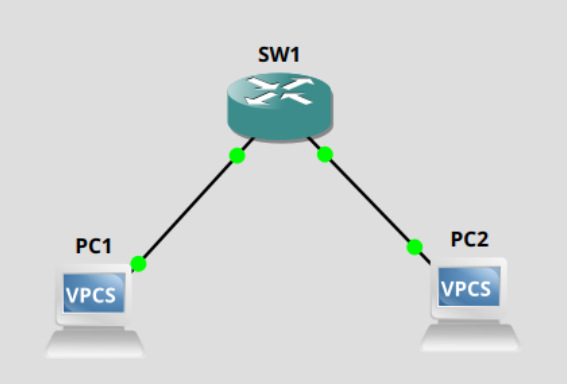
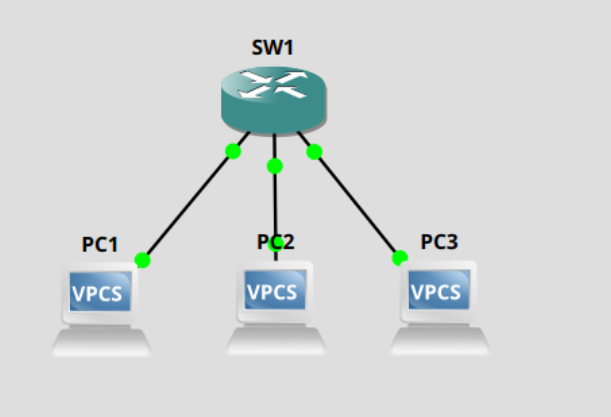
nice

Changed region(s): [[0.2998, 0.0938, 0.9295, 0.875], [0.0899, 0.5625, 0.2998, 0.9062], [0.2698, 0.5, 0.3598, 0.5938]]

diff --git a/README.md b/README.md
@@ -48,45 +48,31 @@ user add name <name> password <password> group=full
 user remove admin
 ```
 
-Set up interfaces as bridge ports. 
+What I would like to do is set up a fairly basic enterprise switch with a few vlans. First, we'll initialize the mikrotik device as a switch and then we'll initialize the vlans and ports with appropriate access vlans assigned. Last we enable vlan filtering.  
 
 ```
-int bridge add name=bridge1
+interface bridge add name=SW1
 
-int bridge port add bridge=bridge1 interface=ether1
-int bridge port add bridge=bridge1 interface=ether2
-int bridge port add bridge=bridge1 interface=ether3
-int bridge port add bridge=bridge1 interface=ether4
-int bridge port add bridge=bridge1 interface=ether5
-int bridge port add bridge=bridge1 interface=ether6
-int bridge port add bridge=bridge1 interface=ether7
-int bridge port add bridge=bridge1 interface=ether8
+interface vlan add interface=SW1 name=PCI vlan-id=10
+interface vlan add interface=SW1 name=Data vlan-id=20
+interface vlan add interface=SW1 name=Voice vlan-id=30
+interface vlan add interface=SW1 name=Management vlan-id=40
+
+interface bridge port add bridge=SW1 interface=ether1 pvid=10
+interface bridge port add bridge=SW1 interface=ether2 pvid=20
+interface bridge port add bridge=SW1 interface=ether3 pvid=20
+
+interface bridge add name=SW1 vlan-filtering=yes
 ```
 
 Connect a couple of PCs, assign IPs and see if they can ping each other. 
 ![alt text](images/basictopology.png)
 
-Assigned 10.1.1.1/8 for PC1 and 10.1.1.2/8 for PC2. Both using 10.1.0.1 as a default gateway, though there isn't one.
+Assigned 10.1.1.1/8 for PC1, 10.1.1.2/8 for PC2 and 10.1.2.1/8 for PC3. Both using 10.1.0.1 as a default gateway, though there isn't one.
 
-Successful pinging. 
+Some pings from PC2 showing it can reach PC3 because its in the same vlan, but not PC1 because it is not. 
+![alt text](images/pings.png)
 
-![alt text](images/firstpings.png)
 
-Created another PC with 10.1.2.1/8.
 
-A lot of businesses handle sensitive data and must separate other network traffic from traffic containing that sensitive info, so on SW1:
 
-```
-interface vlan add interface=bridge1 vlan-id=10 name=PCI
-interface vlan add interface=brdige1 vlan-id=20 name=Admin
-interface vlan add interface=bridge1 vlan-id=60 name=Voice
-interface vlan add interface=bridge1 vlan-id=70 name=management
-
-int bridge port set bridge=bridge1 numbers=0 pvid=10
-int bridge port set bridge=bridge1 numbers=2 pvid=10 
-
-int bridge port set bridge=bridge1 nubmers=1 pvid=20
-```
-I created some typical vlans and then applied pvid with those Vlan IDs to ensure traffic from PCs is tagged.
-
- had to start launching gns3 with root user.
